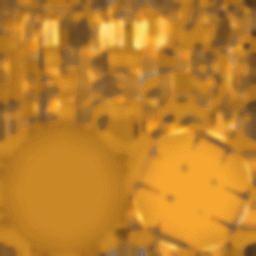
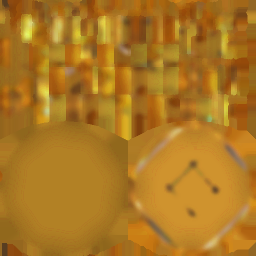
Frost Crystal level 3: the crown rebuilt from the painting (rules pass, wins the blind Codex judge 7 vs 5)
After three losing tweaks (gaps.md), the crown is rebuilt from the painting's proportions: a wide silver band flaring
over a shorter pedestal (4.8 -> 4.0) with a pointed front frame and a big gem, curled silver horns, a thick silver
ring standing on the band with the faceted diamond floating in it, and big crystals fanned round the ring (the
tallest straight up behind it, three each side leaning out, two small ones low at the front). Fresh Codex paint.
Film fc2b: all rules pass (levels 2-3 60.6 %, height 10.83). Blind Codex: 5 -> 7 ("wider crystal crown and circular
ring closer to the painting's silhouette"). The earlier crown stays in the builder behind crown_v2 = 0.
Before/after: reviews/towers/review/frost_l3_2026-11-27_crown_before_after.png.

diff --git a/art/blender/tower_frost_detail.py b/art/blender/tower_frost_detail.py
@@ -129,7 +129,57 @@ elif level == 2:
         rr = P["ring_r"] * 0.55
         shard(f"Shard{k}", (math.cos(a) * rr, math.sin(a) * rr, top), P["shard_h"] * rnd.uniform(0.6, 0.9), P["shard_r"] * 0.9,
               (math.degrees(math.sin(a)) * -0.35, math.degrees(math.cos(a)) * 0.35))
-else:
+elif P.get("crown_v2", 1):
+    # (2026-11-27, coordinator: the crown rebuilt from the painting, gaps.md: a wide silver band flaring over the
+    # pedestal with a pointed front frame and a big front gem, curled silver horns, a thick silver RING (not a gate)
+    # standing on the band with the faceted diamond floating in it, and big crystals fanned out round the ring: the
+    # tallest straight up behind it, three each side leaning out, two small ones low at the front. Sizes from the
+    # painting: the crown about as tall as the pedestal, the crystals spreading about 1.4 times the pedestal's top)
+    cr, sh, rr_ = P.get("crown_r2", 2.3), P.get("shard_h2", 2.6), P.get("ring_r", 1.25)
+    side = Vector((-math.sin(rad(FRONT)), math.cos(rad(FRONT)), 0))
+    fwd = Vector((math.cos(rad(FRONT)), math.sin(rad(FRONT)), 0))
+    rz = top + 0.55 + rr_ + 0.15
+    # crystals first (in the ice sheet), behind and round the ring
+    for k, (da, hk, rk, lean, rf) in enumerate(((180, 1.55, 1.35, 0, 0.35),
+                                                (100, 1.35, 1.25, 22, 0.85), (-100, 1.35, 1.25, 22, 0.85),
+                                                (128, 1.2, 1.15, 16, 0.8), (-128, 1.2, 1.15, 16, 0.8),
+                                                (72, 1.05, 1.1, 30, 0.9), (-72, 1.05, 1.1, 30, 0.9),
+                                                (152, 1.1, 1.1, 10, 0.75), (-152, 1.1, 1.1, 10, 0.75),
+                                                (38, 0.5, 0.9, 34, 0.9), (-38, 0.5, 0.9, 34, 0.9))):
+        a = rad(FRONT + da)
+        shard(f"Shard{k}", (math.cos(a) * cr * rf, math.sin(a) * cr * rf, top + 0.1), sh * hk * rnd.uniform(0.96, 1.04), P["shard_r"] * rk,
+              (math.degrees(math.sin(a)) * -lean / 45, math.degrees(math.cos(a)) * lean / 45))
+    SIL = K.atlas("silver")
+    SIL.__enter__()
+    K.lathe("Ring", [(P["ped_r1"] + 0.05, top - 0.15), (cr, top + 0.05), (cr + 0.1, top + 0.35), (cr - 0.05, top + 0.6), (cr * 0.6, top + 0.62)], SILVER, key=None, verts=32)
+    # the pointed front frame and its big gem
+    fp = fwd * (cr + 0.05) + Vector((0, 0, top + 0.35))
+    K.block("GemFrame", tuple(fp), (1.25, 0.22, 1.25), SILVER, (0, rad(45), rad(FRONT) + rad(90)), key=None, tile=0.6, bevel=0.1)
+    gem("GemFront", tuple(fp + fwd * 0.05), 0.72, FRONT)
+    # the ring: a thick silver circle standing on the band, facing the front
+    ring_pts = [tuple(side * (math.sin(2 * math.pi * k / 28) * rr_) + Vector((0, 0, rz + math.cos(2 * math.pi * k / 28) * rr_))) for k in range(29)]
+    K.chain("Arch", ring_pts, [0.26] * 29, SILVER, seg=10)
+    for s in (-1, 1):   # the curled horns at the band's sides
+        base = side * (s * cr * 0.95) + Vector((0, 0, top + 0.4))
+        horn = [tuple(base + side * (s * 0.45 * math.sin(t)) + Vector((0, 0, 0.8 * t)) - fwd * (0.25 * t * t)) for t in (0, 0.5, 1.0, 1.4)]
+        K.chain(f"Horn{s}", horn, [0.22, 0.18, 0.14, 0.09], SILVER, seg=8)
+    SIL.__exit__()
+    # the faceted diamond floating in the ring, with a thin glowing orbit
+    bpy.ops.mesh.primitive_uv_sphere_add(segments=4, ring_count=2, radius=rr_ * 0.55, location=(0, 0, rz))
+    dia = bpy.context.active_object
+    dia.name = "Diamond"
+    dia.scale = (0.8, 0.8, 1.25)
+    dia.rotation_euler = (0, 0, rad(FRONT + 45))
+    bpy.ops.object.transform_apply(location=False, rotation=True, scale=True)
+    dia["htd_atlas"] = "body"
+    K.paint.paint(dia, None, (0.55, 0.85, 1.0))
+    S.glow_ball("DiamondCore", tuple(Vector((0, 0, rz)) + fwd * 0.2), rr_ * 0.18, (0.85, 0.97, 1.0), seg=10)
+    orbit = [tuple(side * (math.cos(2 * math.pi * k / 24) * rr_ * 0.85) + fwd * (math.sin(2 * math.pi * k / 24) * rr_ * 0.3) + Vector((0, 0, rz + math.sin(2 * math.pi * k / 24) * 0.2))) for k in range(25)]
+    K.chain("OrbRing", orbit, [0.05] * 25, (0.85, 0.97, 1.0), seg=6)
+    for o in [o for o in bpy.context.scene.objects if o.name.startswith("OrbRing")]:
+        S.glow(o, (0.85, 0.97, 1.0))
+    P["crown_r"] = (rz - top) / 0.95   # (the muzzle line below: the ring's centre)
+else:   # (the earlier crown: crown_v2 = 0)
     # (2026-11-27: the crown turned to the run camera with no crystals in the arch read as hollow in the blind
     # Codex judge, 5 against 6: the earlier fuller crown stays)
     # (2026-11-25: the silver parts of level 3 in their own sheet, which scripts/silver_tone.py keeps a cool grey-white

diff --git a/reviews/towers/judge.md b/reviews/towers/judge.md
@@ -1079,3 +1079,21 @@ The three biggest remaining flaws in **A**:
 2. **The archers dominate the balcony.** Their large heads and bright hoods compete with the tower’s silhouette. Scale them down slightly and recess them behind the railing.
 3. **The materials blur together.** The roof, wood and gold all read as similar warm highlights, while the stone is nearly white. Deepen the roof to brick red, darken the timber and give the stone a warmer, less luminous beige.
 
+## the Frost Crystal, level 3: a silver crown of big ice crystals round a silver ring with a floating diamond, on a pale stone drum
+codex gpt-6.1-terra; A = after, B = before
+
+**A is better overall.** Its wider crystal crown and circular ring make it closer to the painting’s silhouette, though neither version captures the concept’s ornate centerpiece.
+
+| Criterion | A | B |
+|---|---:|---:|
+| Reads as the painted tower at phone size | 7/10 | 5/10 |
+| Whole tower visible and well framed | 9/10 | 9/10 |
+| Shape and proportions true to the painting | 7/10 | 5/10 |
+| Colours and materials | 6/10 | 6/10 |
+
+**A’s three biggest remaining flaws:**
+
+1. **The centerpiece is too small and hard to read.** Enlarge the silver ring and floating diamond, and give the diamond a bright cyan glow with clear space around it.
+2. **The crown looks like a cluster of similar shards.** Make the outer crystals taller and more distinct, add the large top diamond, and expose more of the silver ring behind them.
+3. **The drum feels narrow and lacks the painting’s identity.** Widen the pale stone body, add the front snowflake banner, and make the dark wooden braces and gold fittings chunkier.
+

diff --git a/reviews/towers/gaps.md b/reviews/towers/gaps.md
@@ -3,7 +3,7 @@
 Items that lost the blind before/after Codex judge (painting + phone views) more than once. Left as they are until a
 clearly different idea comes up.
 
-## Frost Crystal level 3, the crown (lost three times)
+## Frost Crystal level 3, the crown (lost three times, then rebuilt from the painting: won)
 
 1. The crown turned halfway to the run camera, no crystals in the arch's opening so the arch and diamond show: lost
    5 vs 6 ("the crown feels hollow and exposes too much of the arch").
@@ -11,8 +11,9 @@ clearly different idea comes up.
    the crown and loses its icy form").
 3. A fresh Codex repaint of the level from the painting, no shape change: tied 6 vs 6, before marginally preferred.
 
-What the judge keeps asking for: a fuller crystal crown with a visible silver arch and a faceted centre crystal. A
-next try would rebuild the crown from the painting (crystal sizes and placement measured off it), not move parts.
+4. Rebuilt from the painting (2026-11-27): a wide silver band flaring over a shorter pedestal with a pointed front
+   frame and a big gem, curled horns, a thick silver ring with the diamond floating in it, big crystals fanned round it
+   (the tallest straight up behind): won 7 vs 5, kept. Codex still misses the painting's ornate centrepiece.
 
 ## Ballista level 3, the two weapons (lost twice, then a marginal win)
 
